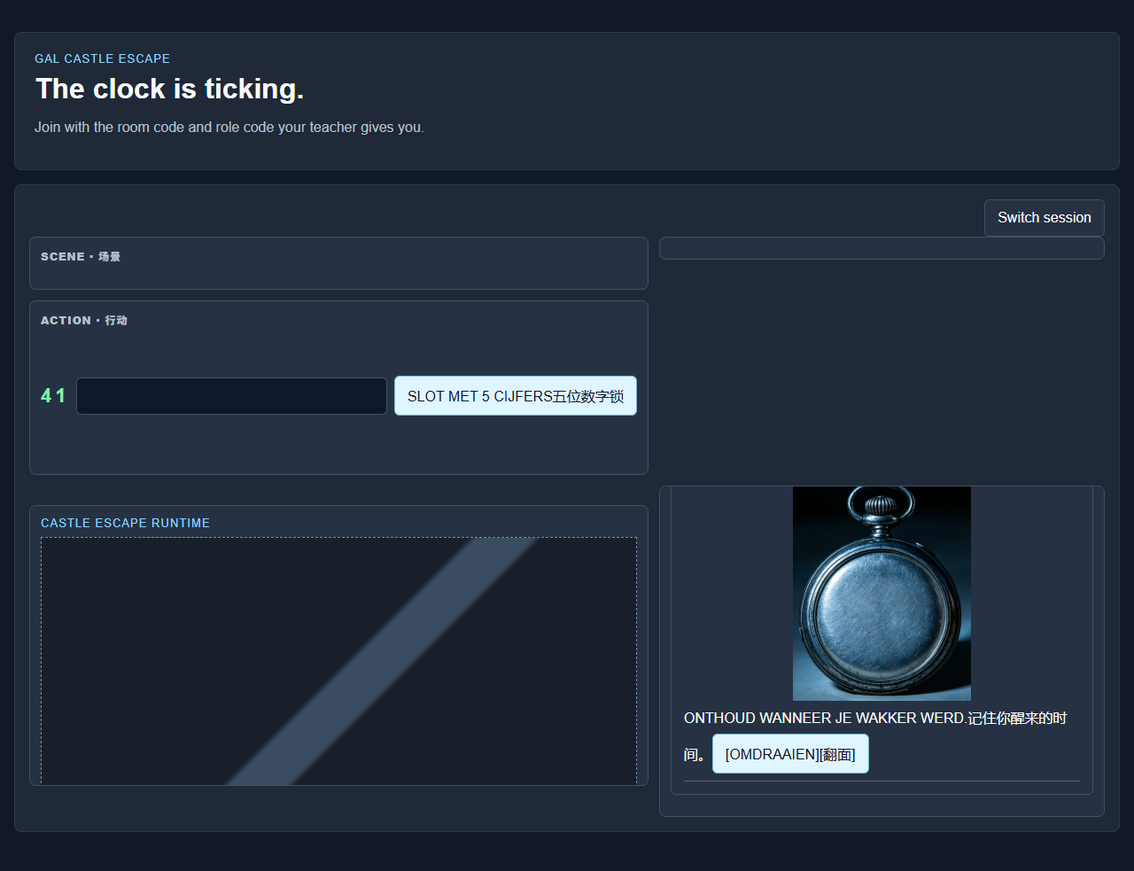
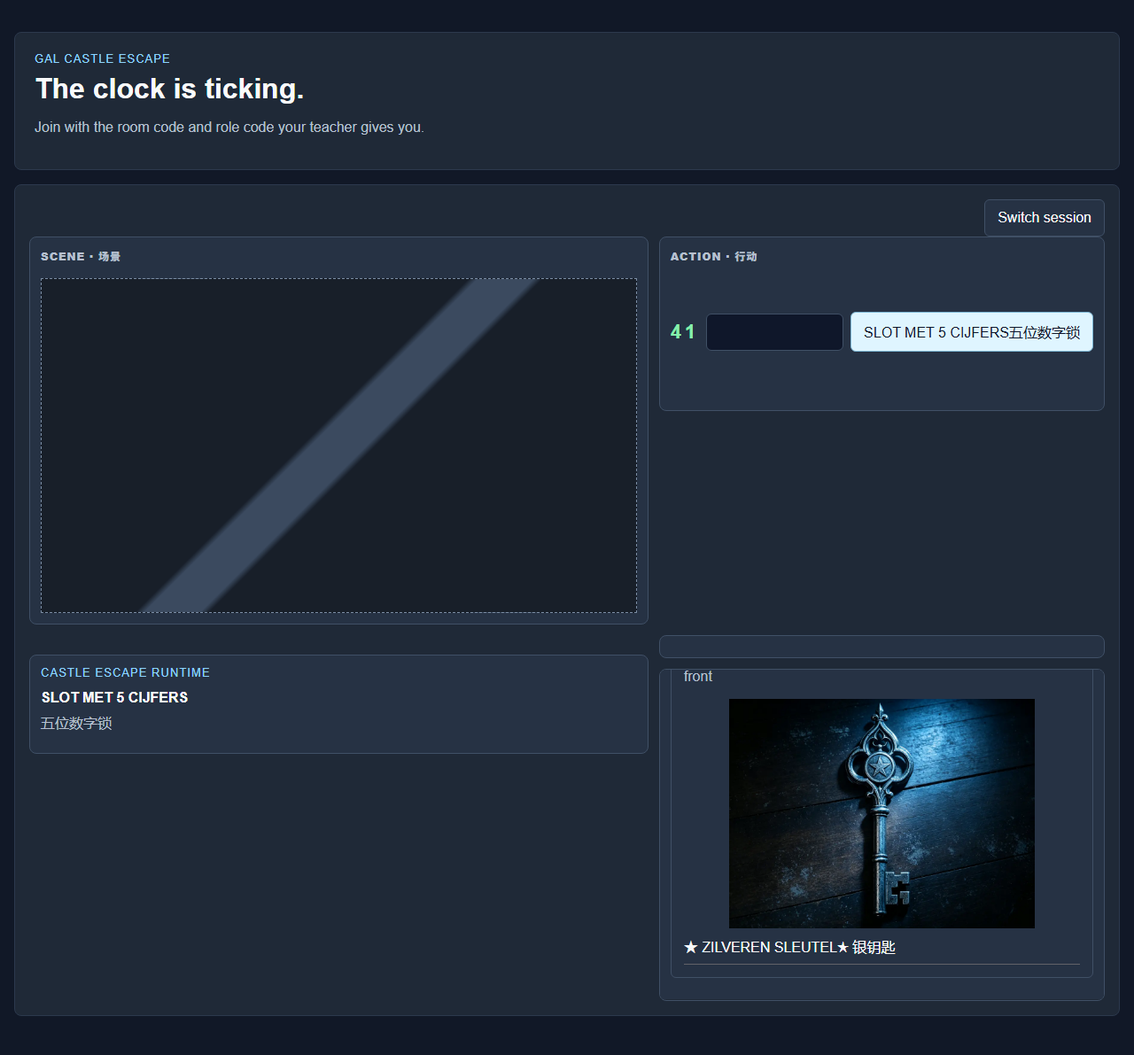
fix(player): route formal scene and restore pocket media

diff --git a/src/game/app.js b/src/game/app.js
@@ -34,6 +34,7 @@ const sprint3bPanel = document.getElementById("sprint3bPanel");
 const sprint3bText = document.getElementById("sprint3bText");
 const sprint3bActions = document.getElementById("sprint3bActions");
 const sprint3bStatus = document.getElementById("sprint3bStatus");
+const formalSceneMount = document.getElementById("formalSceneMount");
 const sprint6DiscussionMount = document.getElementById("sprint6DiscussionMount");
 const pocketMount = document.getElementById("pocketMount");
 
@@ -386,6 +387,7 @@ if (globalThis.__GAL_A1_TEST_HOOKS__) {
 }
 
 function renderAct6EntryBarrier(){
+  formalSceneMount.replaceChildren();
   choiceArea.classList.add("hidden");
   revealArea.classList.add("hidden");
   sprint3bPanel.classList.remove("hidden");
@@ -396,6 +398,7 @@ function renderAct6EntryBarrier(){
 
 function renderLifecycleNotice(state,message){
   currentDiscussion=null;
+  formalSceneMount.replaceChildren();
   choiceArea.classList.add("hidden");
   revealArea.classList.add("hidden");
   discussionPanel.classList.add("hidden");
@@ -410,6 +413,7 @@ function renderLifecycleNotice(state,message){
 }
 
 function renderAct5Handoff(sprint3bState,sprint5State){
+  formalSceneMount.replaceChildren();
   choiceArea.classList.add("hidden");
   revealArea.classList.add("hidden");
   sprint3bPanel.classList.remove("hidden");
@@ -464,6 +468,17 @@ function actionButtons(items, rpcName) {
 
 function localizedKeys(keys=[]) { return keys.map(localizedHtml).join(""); }
 function acceptedWaiting(progress=""){return `<div class="notice accepted-waiting"><p class="good">Action accepted and locked.</p><p class="muted">Waiting for the other players${progress?` · ${escapeHtml(progress)}`:""}.</p></div>`}
+
+function routeFormalPresentation(){
+  formalSceneMount.replaceChildren();
+  for(const selector of[":scope > #s3bSceneImage",":scope > .act4-comparison",":scope > #s5SceneImage",":scope > .portrait-stage",":scope > .clock-stage",":scope > .route-evidence",":scope > .act8-evidence",":scope > .s6-stage > .s6-scene-wrap",":scope > .s6-stage > .s6-station-legend"]){
+    const node=sprint3bText.querySelector(selector);
+    if(node)formalSceneMount.append(node);
+  }
+  for(const node of sprint3bActions.querySelectorAll(":scope > .notice, :scope > .bilingual, :scope > .warn, :scope > span[lang]"))sprint3bText.append(node);
+  const audioControls=sprint3bText.querySelector(":scope > .s6-audio-controls");
+  if(audioControls)sprint3bActions.prepend(audioControls);
+}
 
 function act4ComparisonHtml() {
   const lindaRecognition=session.role_slot==="GAL-C"?`<div class="notice act4-linda-recognition">${localizedHtml("act04-05.003")}</div>`:"";
@@ -539,6 +554,7 @@ function renderSprint3b(state,pocket) {
     return `<p>${localizedTemplateHtml(x.template_text_key,{player_display_name:x.display_name,location})}</p>`;
   }).join("")}</div>`;
   sprint3bActions.innerHTML=html;
+  routeFormalPresentation();
   sprint3bActions.querySelectorAll("[data-s3b-rpc]").forEach(button=>button.addEventListener("click",()=>runSprint3bAction(button)));
   bindPocketActions();
   document.getElementById("libraryCodeForm")?.addEventListener("submit",submitLibraryCode);
@@ -557,15 +573,15 @@ function restoreLibraryDraft(draft,state){const identity=libraryIdentity(state);
 function s5Buttons(items,rpcName){return `<div class="choice-list">${items.map(([id,key])=>`<button type="button" data-s5-rpc="${rpcName}" data-s5-choice="${id}">${localizedHtml(key)}</button>`).join("")}</div>`}
 function pocketItemContent(item){
   const flip=`<button type="button" data-flip-item="${escapeHtml(item.item_key)}" data-target-view="${item.current_view==="back"?"front":"back"}">${localizedHtml("act01-g.028")}</button>`;
-  const assetKey=item.item_key==="gitte_castle_map"?"prop_gitte_castle_map":item.item_key==="anna_servant_diary"?"prop_anna_diary_open":item.item_key==="linda_stopped_watch"?(item.current_view==="back"?"prop_linda_watch_back":"prop_linda_watch_face"):"";
+  const assetKey=item.item_key==="gitte_castle_map"?"prop_gitte_castle_map":item.item_key==="gitte_number_note"?(item.current_view==="back"?"prop_gitte_number_note_back":"prop_gitte_number_note_front"):item.item_key==="anna_servant_diary"?"prop_anna_diary_open":item.item_key==="linda_stopped_watch"?(item.current_view==="back"?"prop_linda_watch_back":"prop_linda_watch_face"):item.item_key==="linda_closure_order"?"prop_linda_closure_order":item.item_key==="linda_star_key"?"prop_linda_star_key":"";
   const media=assetKey?`<img class="v4-pocket-media" data-pocket-asset="${escapeHtml(assetKey)}" alt="">`:"";
   if(item.item_key==="gitte_castle_map")return `${media}${localizedKeys(["act01-g.023","act01-g.024"])}`;
-  if(item.item_key==="gitte_number_note")return `${localizedHtml(item.current_view==="back"?"act01-g.029":"act01-g.007")}${flip}`;
+  if(item.item_key==="gitte_number_note")return `${media}${localizedHtml(item.current_view==="back"?"act01-g.029":"act01-g.007")}${flip}`;
   if(item.item_key==="gitte_flashlight")return localizedHtml("act01-g.030");
   if(item.item_key==="anna_servant_diary")return `${media}${localizedHtml("act01-a.010")}`;
   if(item.item_key==="linda_stopped_watch")return `${media}${localizedHtml(item.current_view==="back"?"act01-l.017":"act01-l.002")}${flip}`;
-  if(item.item_key==="linda_star_key")return localizedHtml("act01-l.005");
-  if(item.item_key==="linda_closure_order")return localizedKeys(["act01-l.009","act01-l.010","act01-l.016"]);
+  if(item.item_key==="linda_star_key")return `${media}${localizedHtml("act01-l.005")}`;
+  if(item.item_key==="linda_closure_order")return `${media}${localizedKeys(["act01-l.009","act01-l.010","act01-l.016"])}`;
   return"";
 }
 function pocketEvidencePanel(pocket,phase){
@@ -597,7 +613,7 @@ function renderSprint5(payload,pocket){
   else if(s.phase_key==="act7_solved")actions=`${localizedKeys(["act07.015","act07.016","act07.017"])}<button type="button" data-s5-rpc="s5_advance">${localizedHtml("act07.018")}</button>`;
   else if(s.phase_key==="act8_route")actions=`<button type="button" data-s5-rpc="s5_advance">${localizedHtml(s.route_taken_act8==="main_gate"?"act08.008":"act08.012")}</button>`;
   else actions=localizedHtml(s.route_taken_act8==="main_gate"?"act08.009":"act08.013");
-  sprint3bText.innerHTML=`<p class="eyebrow">ACT ${s.act_no}</p>${visual}`;sprint3bActions.innerHTML=actions;
+  sprint3bText.innerHTML=`<p class="eyebrow">ACT ${s.act_no}</p>${visual}`;sprint3bActions.innerHTML=actions;routeFormalPresentation();
   hydrateS5Assets(s);
   sprint3bActions.querySelectorAll("[data-s5-rpc]").forEach(button=>button.addEventListener("click",()=>runSprint5Action(button)));
   bindPocketActions();
@@ -655,11 +671,12 @@ function restoreSprint6StationDraft(draft,payload){const identity=sprint6Station
 function sprint6DiscussionIdentity(payload){const s=payload?.state,d=payload?.discussion;return s&&d&&["act9_discussion","act10_discussion","act11_discussion"].includes(s.phase_key)&&d.phase_key===s.phase_key?`${s.run_id}.${s.phase_key}.${d.discussion_session_id}`:""}
 function captureSprint6DiscussionDraft(){const identity=sprint6DiscussionIdentity(currentSprint6State);return identity?inputDraft(document.getElementById("s6MessageText"),identity):null}
 function restoreSprint6DiscussionDraft(draft,payload){const identity=sprint6DiscussionIdentity(payload);if(identity)restoreInputDraft(draft,document.getElementById("s6MessageText"),identity)}
-function renderSprint6(payload){const stationDraft=captureSprint6StationDraft(),discussionDraft=captureSprint6DiscussionDraft();currentSprint6State=payload;const s=payload.state;clearSprint6Status();setSprint6CinematicMode(s);choiceArea.classList.add("hidden");revealArea.classList.add("hidden");sprint3bPanel.classList.remove("hidden");const black=s.phase_key==="act12_cinematic"&&s.cinematic_stage===10;const hall=s.act_no===9?`<div class="s6-door-layer"><span data-anchor="great_hall_red_door" class="s6-door red ${s.act9_step>=2?"open":""}">${localizedHtml("act09.001")}</span><span data-anchor="great_hall_blue_door" class="s6-door blue ${s.act9_step>=3?"available":""} ${s.act9_step>=4?"open":""}">${localizedHtml("act09.002")}</span><span data-anchor="great_hall_black_door" class="s6-door black">${localizedHtml("act09.003")}</span></div>`:"",mainGate=mainGateOverlayHtml(s),mainGateLegend=mainGateLegendHtml(s);let body=`<div class="s6-stage ${black?"blackout":""}">${black?"":`<p class="eyebrow">ACT ${s.act_no}</p>${payload.scene_asset_key?`<div class="s6-scene-wrap"><img id="s6SceneImage" class="s5-scene" alt="">${hall}${mainGate}</div>${mainGateLegend}`:""}${payload.private_clue?`<div class="notice">${localizedHtml(payload.private_clue.text_key)}</div>`:""}${localizedKeys(s.feedback_text_keys||[])}`}</div>`,actions="";body+=sprint6AudioControls();if(payload.private_choices_revealed?.length)body+=`<div class="notice">${payload.private_choices_revealed.map(x=>`${escapeHtml(x.role_slot)}: ${localizedHtml(x.choice_id==="take"?"act10.004":"act10.005")}`).join("<br>")}</div>`;if(payload.discussion)actions=sprint6Discussion(payload);if(s.phase_key==="act9_console"){const choices=s.act9_step===1||s.act9_step===3?S6_DOORS:s.act9_step===2?[["enter_red","act09.015"],["do_not_enter","act09.016"]]:[["enter_blue","act09.020"],["stay","act09.021"]];actions=s5Buttons(choices,"s6_submit_group_choice_v2").replaceAll("data-s5-","data-s6-")}if(s.phase_key==="act10_private")actions=s5Buttons([["take","act10.004"],["leave","act10.005"]],"s6_submit_private_choice_v2").replaceAll("data-s5-","data-s6-");if(s.phase_key==="act10_final_vote")actions=s5Buttons([["take","act10.006"],["leave","act10.007"]],"s6_submit_group_choice_v2").replaceAll("data-s5-","data-s6-");if(s.phase_key==="act10_result")actions=`<button data-s6-rpc="s6_advance_v2">${localizedHtml("act10.010")}</button>`;if(s.phase_key==="act11_allocation")actions=s5Buttons((s.gold_key?[["A","act11.012"],["B","act11.013"],["WATCHER","act11.014"]]:[["A","act11.012"],["B","act11.013"],["C","act11.004"]]),"s6_submit_allocation_v2").replaceAll("data-s5-","data-s6-");if(s.phase_key==="act12_tasks"&&payload.allocation){const task={A:["act11.005","1897"],B:["act11.007",payload.station_b_stage==="lever_held"?"lever_center":"lever_hold"],C:["act11.008","silver_key_inserted"],WATCHER:["act11.015","corridor_watched"]}[payload.allocation];actions=payload.station_task?`<button data-s6-rpc="s6_engage_v2" data-s6-role="${escapeHtml(payload.allocation)}">${localizedHtml(payload.allocation==="WATCHER"?"act12.004":"act12.001")}</button>`:`${localizedHtml(task[0])}${payload.allocation==="B"&&payload.station_b_stage==="lever_held"?`<span class="s6-lever-track" aria-hidden="true"><span></span></span>`:""}${payload.allocation==="A"?`<form id="s6StationForm" class="composer"><input id="s6StationValue" inputmode="numeric" maxlength="4" required><button>${localizedHtml("act12.001")}</button></form>`:payload.allocation==="B"&&payload.station_b_stage==="lever_held"?"":`<button data-s6-rpc="s6_complete_station_v2" data-s6-value="${task[1]}">${localizedHtml(payload.allocation==="B"?"act12.002":payload.allocation==="C"?"act12.003":"act12.004")}</button>`}`}if(s.phase_key==="act12_pressure"){const failing=payload.allocation===s.mechanism_failure_station;actions=s5Buttons(failing?[["one","act12.008"],["two","act12.009"],["three","act12.010"],["four","act12.011"]]:[["hold","act12.012"],["encourage","act12.013"],["watch","act12.014"],["prepare","act12.015"]],"s6_submit_private_choice_v2").replaceAll("data-s5-","data-s6-")}if(s.phase_key==="act13_escape"&&Date.parse(payload.act13_continue_at)<=Date.now())actions=`<button data-s6-rpc="s6_advance_v2">${localizedHtml("common.004")}</button>`;if(s.phase_key==="act13_boundary")actions=`<button id="s8Finalize">${localizedHtml("common.004")}</button>`;sprint3bText.innerHTML=body;sprint3bActions.innerHTML=actions;restoreSprint6StationDraft(stationDraft,payload);restoreSprint6DiscussionDraft(discussionDraft,payload);hydrateSprint6(payload);sprint3bActions.querySelectorAll("[data-s6-rpc]").forEach(b=>b.addEventListener("click",()=>runSprint6Action(b)));document.getElementById("s8Finalize")?.addEventListener("click",finalizeSprint8);document.getElementById("s6MessageForm")?.addEventListener("submit",sendSprint6Message);document.getElementById("s6StationForm")?.addEventListener("submit",submitSprint6Station);document.querySelectorAll("[data-s6-volume]").forEach(button=>button.addEventListener("click",()=>setSprint6Volume(button.dataset.s6Volume)));scheduleSprint6LeverCenter(payload)}
+function renderSprint6(payload){const stationDraft=captureSprint6StationDraft(),discussionDraft=captureSprint6DiscussionDraft();currentSprint6State=payload;const s=payload.state;clearSprint6Status();setSprint6CinematicMode(s);choiceArea.classList.add("hidden");revealArea.classList.add("hidden");sprint3bPanel.classList.remove("hidden");const black=s.phase_key==="act12_cinematic"&&s.cinematic_stage===10;const hall=s.act_no===9?`<div class="s6-door-layer"><span data-anchor="great_hall_red_door" class="s6-door red ${s.act9_step>=2?"open":""}">${localizedHtml("act09.001")}</span><span data-anchor="great_hall_blue_door" class="s6-door blue ${s.act9_step>=3?"available":""} ${s.act9_step>=4?"open":""}">${localizedHtml("act09.002")}</span><span data-anchor="great_hall_black_door" class="s6-door black">${localizedHtml("act09.003")}</span></div>`:"",mainGate=mainGateOverlayHtml(s),mainGateLegend=mainGateLegendHtml(s);let body=`<div class="s6-stage ${black?"blackout":""}">${black?"":`<p class="eyebrow">ACT ${s.act_no}</p>${payload.scene_asset_key?`<div class="s6-scene-wrap"><img id="s6SceneImage" class="s5-scene" alt="">${hall}${mainGate}</div>${mainGateLegend}`:""}${payload.private_clue?`<div class="notice">${localizedHtml(payload.private_clue.text_key)}</div>`:""}${localizedKeys(s.feedback_text_keys||[])}`}</div>`,actions="";body+=sprint6AudioControls();if(payload.private_choices_revealed?.length)body+=`<div class="notice">${payload.private_choices_revealed.map(x=>`${escapeHtml(x.role_slot)}: ${localizedHtml(x.choice_id==="take"?"act10.004":"act10.005")}`).join("<br>")}</div>`;if(payload.discussion)actions=sprint6Discussion(payload);if(s.phase_key==="act9_console"){const choices=s.act9_step===1||s.act9_step===3?S6_DOORS:s.act9_step===2?[["enter_red","act09.015"],["do_not_enter","act09.016"]]:[["enter_blue","act09.020"],["stay","act09.021"]];actions=s5Buttons(choices,"s6_submit_group_choice_v2").replaceAll("data-s5-","data-s6-")}if(s.phase_key==="act10_private")actions=s5Buttons([["take","act10.004"],["leave","act10.005"]],"s6_submit_private_choice_v2").replaceAll("data-s5-","data-s6-");if(s.phase_key==="act10_final_vote")actions=s5Buttons([["take","act10.006"],["leave","act10.007"]],"s6_submit_group_choice_v2").replaceAll("data-s5-","data-s6-");if(s.phase_key==="act10_result")actions=`<button data-s6-rpc="s6_advance_v2">${localizedHtml("act10.010")}</button>`;if(s.phase_key==="act11_allocation")actions=s5Buttons((s.gold_key?[["A","act11.012"],["B","act11.013"],["WATCHER","act11.014"]]:[["A","act11.012"],["B","act11.013"],["C","act11.004"]]),"s6_submit_allocation_v2").replaceAll("data-s5-","data-s6-");if(s.phase_key==="act12_tasks"&&payload.allocation){const task={A:["act11.005","1897"],B:["act11.007",payload.station_b_stage==="lever_held"?"lever_center":"lever_hold"],C:["act11.008","silver_key_inserted"],WATCHER:["act11.015","corridor_watched"]}[payload.allocation];actions=payload.station_task?`<button data-s6-rpc="s6_engage_v2" data-s6-role="${escapeHtml(payload.allocation)}">${localizedHtml(payload.allocation==="WATCHER"?"act12.004":"act12.001")}</button>`:`${localizedHtml(task[0])}${payload.allocation==="B"&&payload.station_b_stage==="lever_held"?`<span class="s6-lever-track" aria-hidden="true"><span></span></span>`:""}${payload.allocation==="A"?`<form id="s6StationForm" class="composer"><input id="s6StationValue" inputmode="numeric" maxlength="4" required><button>${localizedHtml("act12.001")}</button></form>`:payload.allocation==="B"&&payload.station_b_stage==="lever_held"?"":`<button data-s6-rpc="s6_complete_station_v2" data-s6-value="${task[1]}">${localizedHtml(payload.allocation==="B"?"act12.002":payload.allocation==="C"?"act12.003":"act12.004")}</button>`}`}if(s.phase_key==="act12_pressure"){const failing=payload.allocation===s.mechanism_failure_station;actions=s5Buttons(failing?[["one","act12.008"],["two","act12.009"],["three","act12.010"],["four","act12.011"]]:[["hold","act12.012"],["encourage","act12.013"],["watch","act12.014"],["prepare","act12.015"]],"s6_submit_private_choice_v2").replaceAll("data-s5-","data-s6-")}if(s.phase_key==="act13_escape"&&Date.parse(payload.act13_continue_at)<=Date.now())actions=`<button data-s6-rpc="s6_advance_v2">${localizedHtml("common.004")}</button>`;if(s.phase_key==="act13_boundary")actions=`<button id="s8Finalize">${localizedHtml("common.004")}</button>`;sprint3bText.innerHTML=body;sprint3bActions.innerHTML=actions;routeFormalPresentation();restoreSprint6StationDraft(stationDraft,payload);restoreSprint6DiscussionDraft(discussionDraft,payload);hydrateSprint6(payload);sprint3bActions.querySelectorAll("[data-s6-rpc]").forEach(b=>b.addEventListener("click",()=>runSprint6Action(b)));document.getElementById("s8Finalize")?.addEventListener("click",finalizeSprint8);document.getElementById("s6MessageForm")?.addEventListener("submit",sendSprint6Message);document.getElementById("s6StationForm")?.addEventListener("submit",submitSprint6Station);document.querySelectorAll("[data-s6-volume]").forEach(button=>button.addEventListener("click",()=>setSprint6Volume(button.dataset.s6Volume)));scheduleSprint6LeverCenter(payload)}
 
 async function finalizeSprint8(){const button=document.getElementById("s8Finalize");if(button)button.disabled=true;try{await flushSprint6AudioConsumptions();const runId=currentSprint6State?.state?.run_id;if(!runId)throw new Error("Finalization run identity is unavailable.");const pending=requestIdentity("s8-finalize",runId,{boundary:"act14",run_id:runId});await rpc("s8_finalize",{p_room_code:session.room_code,p_session_token:session.session_token,p_client_request_id:pending.requestId,p_expected_run_id:runId});clearRequestIdentity(pending.key);await refreshState()}catch(error){sprint3bStatus.innerHTML=`<span class="bad">${escapeHtml(error.message)}</span>`;if(button)button.disabled=false}}
 function renderSprint8(payload){
   setSprint6CinematicMode({phase_key:"act14_complete"});
+  formalSceneMount.replaceChildren();
   choiceArea.classList.add("hidden");
   revealArea.classList.add("hidden");
   discussionPanel.classList.add("hidden");

diff --git a/tests/helpers/v4-two-scene-pilot-driver.js b/tests/helpers/v4-two-scene-pilot-driver.js
@@ -7,12 +7,12 @@ const players=[
 const initialMessages=Array.from({length:18},(_,i)=>({display_name:players[i%3].display_name,message_text:`Pilot message ${i+1}`,created_at:`2026-10-25T00:00:${String(i).padStart(2,"0")}Z`}));
 function createPilotState(sceneMode="act10"){return{sceneMode,lockedPrefix:"41",messages:[...initialMessages],phase:"act10_discussion",discussionStatus:"discussion",discussionId:DISC,failNextSend:false,sent:[],librarySubmits:[],libraryReceipts:[],inspected:[],flips:[],teacherOpenVote:[],pocketInspected:new Set(["linda_stopped_watch"]),watchView:"front"}}
 const sessionFor=index=>({room_code:"V4PILOT",...players[index]});
-const pocket=state=>({active:true,items:[{item_key:"anna_servant_diary",name_text_key:"item.servant_diary",current_view:"front"},{item_key:"linda_stopped_watch",name_text_key:"item.stopped_watch",current_view:state.watchView}],group_items:[],observations:[],shared_photos:[],inspected_item_keys:[...state.pocketInspected],scene:{allow_share_photo:false}});
+const pocket=state=>({active:true,items:state.sceneMode==="act3"?[{item_key:"gitte_number_note",name_text_key:"item.number_note",current_view:"front"},{item_key:"anna_servant_diary",name_text_key:"item.servant_diary",current_view:"front"},{item_key:"linda_stopped_watch",name_text_key:"item.stopped_watch",current_view:state.watchView},{item_key:"linda_closure_order",name_text_key:"item.closure_order",current_view:"front"},{item_key:"linda_star_key",name_text_key:"item.star_key",current_view:"front"}]:[{item_key:"anna_servant_diary",name_text_key:"item.servant_diary",current_view:"front"},{item_key:"linda_stopped_watch",name_text_key:"item.stopped_watch",current_view:state.watchView}],group_items:[],observations:[],shared_photos:[],inspected_item_keys:[...state.pocketInspected],scene:{allow_share_photo:false}});
 const s3b=(scene,state)=>({active:true,run_id:RUN,scene:scene==="act3"?{scene_id:"act3_library",phase_key:"library_box",step_key:"enter_code",text_key:"act03.009"}:{scene_id:"act10_golden_key",phase_key:"act10_discussion",step_key:"discussion",text_key:"act10.004"},flow:{puzzle_resolved_at:null,puzzle_locked_prefix:state.lockedPrefix,puzzle_hint_stage:0},me:{first_meeting_locked_at:"2026-10-25T00:00:00Z",grab_complete:true,left_start_room:true,route_update_ack_at:"2026-10-25T00:00:01Z",player_location:"library"},queued_first_messages:[],act4_revealed:[]});
-const discussion=state=>({discussion_session_id:state.discussionId,phase_key:"act10_discussion",status:state.discussionStatus,phase_deadline:"2099-01-01T00:00:00Z",teacher_open_required:true,vote_round:1,topic:"Golden key",messages:state.messages,require_final_vote:true});
-const s6=state=>({active:true,run_id:RUN,state:{run_id:RUN,act_no:10,phase_key:state.phase,act9_step:4,round_no:1,gold_key:true,feedback_text_keys:[]},discussion:state.phase==="act10_discussion"?discussion(state):null,private_choices_revealed:[],audio_occurrence:null});
+const discussion=state=>({discussion_session_id:state.discussionId,phase_key:state.sceneMode==="act9"?"act9_discussion":"act10_discussion",status:state.discussionStatus,phase_deadline:"2099-01-01T00:00:00Z",teacher_open_required:state.sceneMode!=="act9",vote_round:1,topic:state.sceneMode==="act9"?"Great Hall":"Golden key",messages:state.messages,require_final_vote:true});
+const s6=state=>{const act9=state.sceneMode==="act9";return{active:true,run_id:RUN,state:{run_id:RUN,act_no:act9?9:10,phase_key:act9?"act9_discussion":state.phase,act9_step:act9?1:4,round_no:1,gold_key:!act9,feedback_text_keys:act9?Array(18).fill("act09.004"):[]},scene_asset_key:act9?"shared.great_hall":null,discussion:act9||state.phase==="act10_discussion"?discussion(state):null,private_choices_revealed:[],audio_occurrence:null}};
 function playerValue(name,scene,state){
-  if(name==="s8_get_player_state")return{active:false};if(name==="s2_get_player_state")return{active:true,discussion:null};if(name==="s3b_get_player_state")return s3b(scene,state);if(name==="s5_get_player_state")return{active:false};if(name==="s6_get_player_state")return scene==="act10"?s6(state):{active:false};if(name==="s9_get_player_wait_state")return{active:false};if(name==="s3_get_player_state")return pocket(state);if(name==="asset_resolve")return{ok:false};return null;
+  if(name==="s8_get_player_state")return{active:false};if(name==="s2_get_player_state")return{active:true,discussion:null};if(name==="s3b_get_player_state")return s3b(scene,state);if(name==="s5_get_player_state")return{active:false};if(name==="s6_get_player_state")return["act9","act10"].includes(scene)?s6(state):{active:false};if(name==="s9_get_player_wait_state")return{active:false};if(name==="s3_get_player_state")return pocket(state);if(name==="asset_resolve")return{ok:false};return null;
 }
 async function installPlayerRoutes(page,scene,{state=createPilotState(scene),playerIndex=1}={}){const session=sessionFor(playerIndex);await page.addInitScript(saved=>localStorage.setItem("gal_castle_escape_session_v1",JSON.stringify(saved)),session);await page.route("**/rest/v1/rpc/**",async route=>{const name=new URL(route.request().url()).pathname.split("/").pop(),body=route.request().postDataJSON?.()||{};if(name==="s6_send_message_v2"){if(state.failNextSend){state.failNextSend=false;return json(route,409,{message:"Synthetic send failure"})}state.sent.push({...body,role_slot:session.role_slot});state.messages.push({display_name:session.display_name,message_text:body.p_message_text,created_at:new Date().toISOString()});return ok(route)}if(name==="s3b_submit_library_code"){state.librarySubmits.push(body);const receipt={rpc:name,status:body.p_code==="41739"?"accepted":"rejected",code:body.p_code,requestId:body.p_client_request_id,count:state.librarySubmits.length};state.libraryReceipts.push(receipt);await ok(route);await page.evaluate(detail=>window.dispatchEvent(new CustomEvent("v4-pilot-rpc-receipt",{detail})),receipt);return}if(name==="s9_inspect_pocket_item"){state.inspected.push(body);state.pocketInspected.add(body.p_item_key);return ok(route)}if(name==="s3_set_item_view"){state.flips.push(body);state.watchView=body.p_target_view;return ok(route)}const result=playerValue(name,state.sceneMode||scene,state);return json(route,result===null?400:200,result===null?{message:`Unexpected RPC ${name}`}:result)});return state}
 function teacherDiscussionState(state){return{sprint6_active:true,active:true,canonical_flow_active:true,run:{run_id:RUN,run_mode:"normal",behavior_dataset_eligible:false},s6:{act9_step:4,round_no:1},discussion:discussion(state),messages:state.messages,current_votes:players.map(p=>({...p,submitted:false})),teacher_override:null}}

diff --git a/src/styles/app.css b/src/styles/app.css
@@ -16,7 +16,7 @@
 body{margin:0;font-family:Arial,sans-serif;background:var(--bg);color:var(--text)}
 .shell{max-width:760px;margin:0 auto;padding:28px 16px}
 .shell.wide{max-width:1040px}
-.v4-player-shell{max-width:1320px;margin-inline:auto}.v4-runtime-grid{display:grid;grid-template-columns:minmax(0,1.35fr) minmax(360px,.85fr);grid-template-areas:"scene discussion" "action discussion" "story pocket";gap:14px;align-items:start}.v4-region{min-width:0;min-height:0;border:1px solid var(--line);border-radius:8px;background:var(--panel-soft);padding:14px}.v4-region-title{margin:0 0 10px;color:var(--muted);font-size:12px;font-weight:800;text-transform:uppercase;letter-spacing:.08em}.v4-scene-region{grid-area:scene}.v4-action-region{grid-area:action}.v4-discussion-region{grid-area:discussion;max-height:calc(100vh - 150px);overflow:auto}.v4-story-region{grid-area:story;max-height:clamp(280px,44vh,620px);overflow:auto}.v4-pocket-region{grid-area:pocket;max-height:clamp(280px,44vh,620px);overflow:auto}.v4-pocket-media{display:block;width:100%;max-height:280px;object-fit:contain;margin:8px 0}
+.v4-player-shell{max-width:1320px;margin-inline:auto}.v4-runtime-grid{display:grid;grid-template-columns:minmax(0,1.35fr) minmax(360px,.85fr);grid-template-areas:"scene action" "story discussion" "story pocket";gap:14px;align-items:start}.v4-region{min-width:0;min-height:0;border:1px solid var(--line);border-radius:8px;background:var(--panel-soft);padding:14px}.v4-region-title{margin:0 0 10px;color:var(--muted);font-size:12px;font-weight:800;text-transform:uppercase;letter-spacing:.08em}.v4-scene-region{grid-area:scene}.v4-action-region{grid-area:action}.v4-discussion-region{grid-area:discussion;max-height:calc(100vh - 150px);overflow:auto}.v4-story-region{grid-area:story;max-height:clamp(280px,44vh,620px);overflow:auto}.v4-pocket-region{grid-area:pocket;max-height:clamp(280px,44vh,620px);overflow:auto}.v4-pocket-media{display:block;width:100%;max-height:280px;object-fit:contain;margin:8px 0}#formalSceneMount:empty{display:none}#formalSceneMount>:first-child{margin-top:0}#formalSceneMount>:last-child{margin-bottom:0}
 .shell:has(#gamePanel:not(.hidden)){max-width:1360px}
 .v4-discussion-region .transcript{gap:5px;margin:8px 0;max-height:260px;padding:8px}.v4-discussion-region .message{padding:6px 8px;font-size:11pt;line-height:1.28}.v4-discussion-region .message p{margin-top:3px}.v4-discussion-region .composer{gap:6px;margin-bottom:8px}.v4-discussion-region .composer input,.v4-discussion-region .composer button{font-size:11pt;padding:8px 10px}.v4-pocket-region{min-height:min(360px,52vh);max-height:clamp(360px,52vh,680px)}.v4-pocket-media{height:auto;max-height:min(300px,36vh);object-fit:contain;object-position:center}
 .panel{background:var(--panel);border:1px solid #2c394d;border-radius:8px;padding:22px;margin-bottom:16px}
@@ -78,7 +78,7 @@ th,td{text-align:left;border-bottom:1px solid var(--line);padding:10px;vertical-
   .composer{grid-template-columns:1fr}
 }
 @media(max-width:1399px){.v4-player-shell{padding:16px}.v4-runtime-grid{grid-template-columns:minmax(0,1fr) minmax(320px,.72fr);gap:12px}.v4-region{padding:12px}.v4-discussion-region{max-height:calc(100vh - 132px)}}
-@media(max-width:999px){.v4-runtime-grid{grid-template-columns:minmax(0,1fr);grid-template-areas:"scene" "action" "discussion" "story" "pocket"}.v4-discussion-region,.v4-story-region,.v4-pocket-region{max-height:none;overflow:visible}}
+@media(max-width:999px){.v4-runtime-grid{grid-template-columns:minmax(0,1fr);grid-template-areas:"scene" "story" "action" "discussion" "pocket"}.v4-discussion-region,.v4-story-region,.v4-pocket-region{max-height:none;overflow:visible}}
 .portrait-stage,.clock-stage{position:relative;min-height:220px;background:#171719;border:1px solid #626268;overflow:hidden}.portrait-stage>img,.s5-scene{display:block;width:100%;max-height:420px;object-fit:contain}.portrait-overlay{position:absolute;opacity:0;transition:opacity 1s 1s}.portrait-overlay.ready{opacity:1}
 .trial-asset-placeholder{aspect-ratio:16/9;min-height:180px;object-fit:contain;background-color:#151b24;background-image:linear-gradient(135deg,transparent 0 46%,#405066 47% 53%,transparent 54% 100%);border:1px dashed #8da0b8;opacity:.82}
 .clock-stage .clock{position:absolute;border:2px solid #d4d7dc;border-radius:50%;display:grid;place-content:center;text-align:center;background:rgba(10,12,16,.7);color:#fff}.clock b,.clock span{display:block}.clock .hand{position:absolute;width:2px;height:36%;left:50%;bottom:50%;background:#fff;transform-origin:bottom}.clockwise{animation:clock-turn 4s linear infinite}.counterclockwise{animation:clock-turn 4s linear infinite reverse}.stopped{transform:rotate(294deg)}@keyframes clock-turn{to{transform:rotate(360deg)}}

diff --git a/tests/v4-player-integration-static-check.js b/tests/v4-player-integration-static-check.js
@@ -1,9 +1,11 @@
 const fs=require("fs");
 const assert=(value,message)=>{if(!value)throw new Error(message)};
 const html=fs.readFileSync("index.html","utf8"),css=fs.readFileSync("src/styles/app.css","utf8"),app=fs.readFileSync("src/game/app.js","utf8");
-for(const id of["sceneText","choiceArea","revealArea","discussionPanel","transcript","messageText","sprint3bPanel","sprint3bText","sprint3bActions","sprint3bStatus","sprint6DiscussionMount","pocketMount"])assert((html.match(new RegExp(`id=["']${id}["']`,"g"))||[]).length===1,`stable runtime ID ${id} is not unique`);
+for(const id of["sceneText","choiceArea","revealArea","formalSceneMount","discussionPanel","transcript","messageText","sprint3bPanel","sprint3bText","sprint3bActions","sprint3bStatus","sprint6DiscussionMount","pocketMount"])assert((html.match(new RegExp(`id=["']${id}["']`,"g"))||[]).length===1,`stable runtime ID ${id} is not unique`);
 for(const token of["v4-runtime-grid","v4-scene-region","v4-action-region","v4-discussion-region","v4-story-region","v4-pocket-region","@media(max-width:1399px)","@media(max-width:999px)"])assert(html.includes(token)||css.includes(token),`missing Player-first layout contract ${token}`);
 for(const token of["compositionstart","compositionend","captureDiscussionViewport","restoreDiscussionViewport","acknowledgePendingMessage","pocketOpenState"])assert(app.includes(token),`missing lifecycle contract ${token}`);
-for(const key of["prop_gitte_castle_map","prop_anna_diary_open","prop_linda_watch_face","prop_linda_watch_back"])assert(app.includes(key),`missing canonical Pocket asset mapping ${key}`);
+for(const key of["prop_gitte_castle_map","prop_gitte_number_note_front","prop_gitte_number_note_back","prop_anna_diary_open","prop_linda_watch_face","prop_linda_watch_back","prop_linda_closure_order","prop_linda_star_key"])assert(app.includes(key),`missing canonical Pocket asset mapping ${key}`);
+assert(css.includes('grid-template-areas:"scene action" "story discussion" "story pocket"'),"Teacher Scene/Runtime/Action desktop placement missing");
+for(const token of["routeFormalPresentation","formalSceneMount.append(node)","sprint3bText.append(node)"])assert(app.includes(token),`formal content ownership routing missing: ${token}`);
 for(const forbidden of["MutationObserver","__GAL_A1_TEST_HOOKS__?.stopPolling","__GAL_A1_TEST_HOOKS__?.startPolling"])assert(!app.includes(forbidden),`production source contains pilot-only hook ${forbidden}`);
 console.log("V4 Player integration static checks passed.");

diff --git a/index.html b/index.html
@@ -38,7 +38,7 @@
       <button id="leaveButton" class="secondary">Switch session</button>
     </div>
     <div class="v4-runtime-grid">
-    <section class="v4-region v4-scene-region" aria-label="Scene"><p class="v4-region-title">Scene · 场景</p><p id="sceneText"></p><div id="revealArea"></div></section>
+    <section class="v4-region v4-scene-region" aria-label="Scene"><p class="v4-region-title">Scene · 场景</p><p id="sceneText"></p><div id="revealArea"></div><div id="formalSceneMount"></div></section>
     <section class="v4-region v4-action-region" aria-label="Action"><p class="v4-region-title">Action · 行动</p><div id="choiceArea"></div><p id="gameStatus" class="status muted"></p><div id="sprint3bActions"></div><p id="sprint3bStatus" class="status muted"></p></section>
 
     <section id="sprint3bPanel" class="story-flow hidden v4-region v4-story-region" aria-live="polite">
